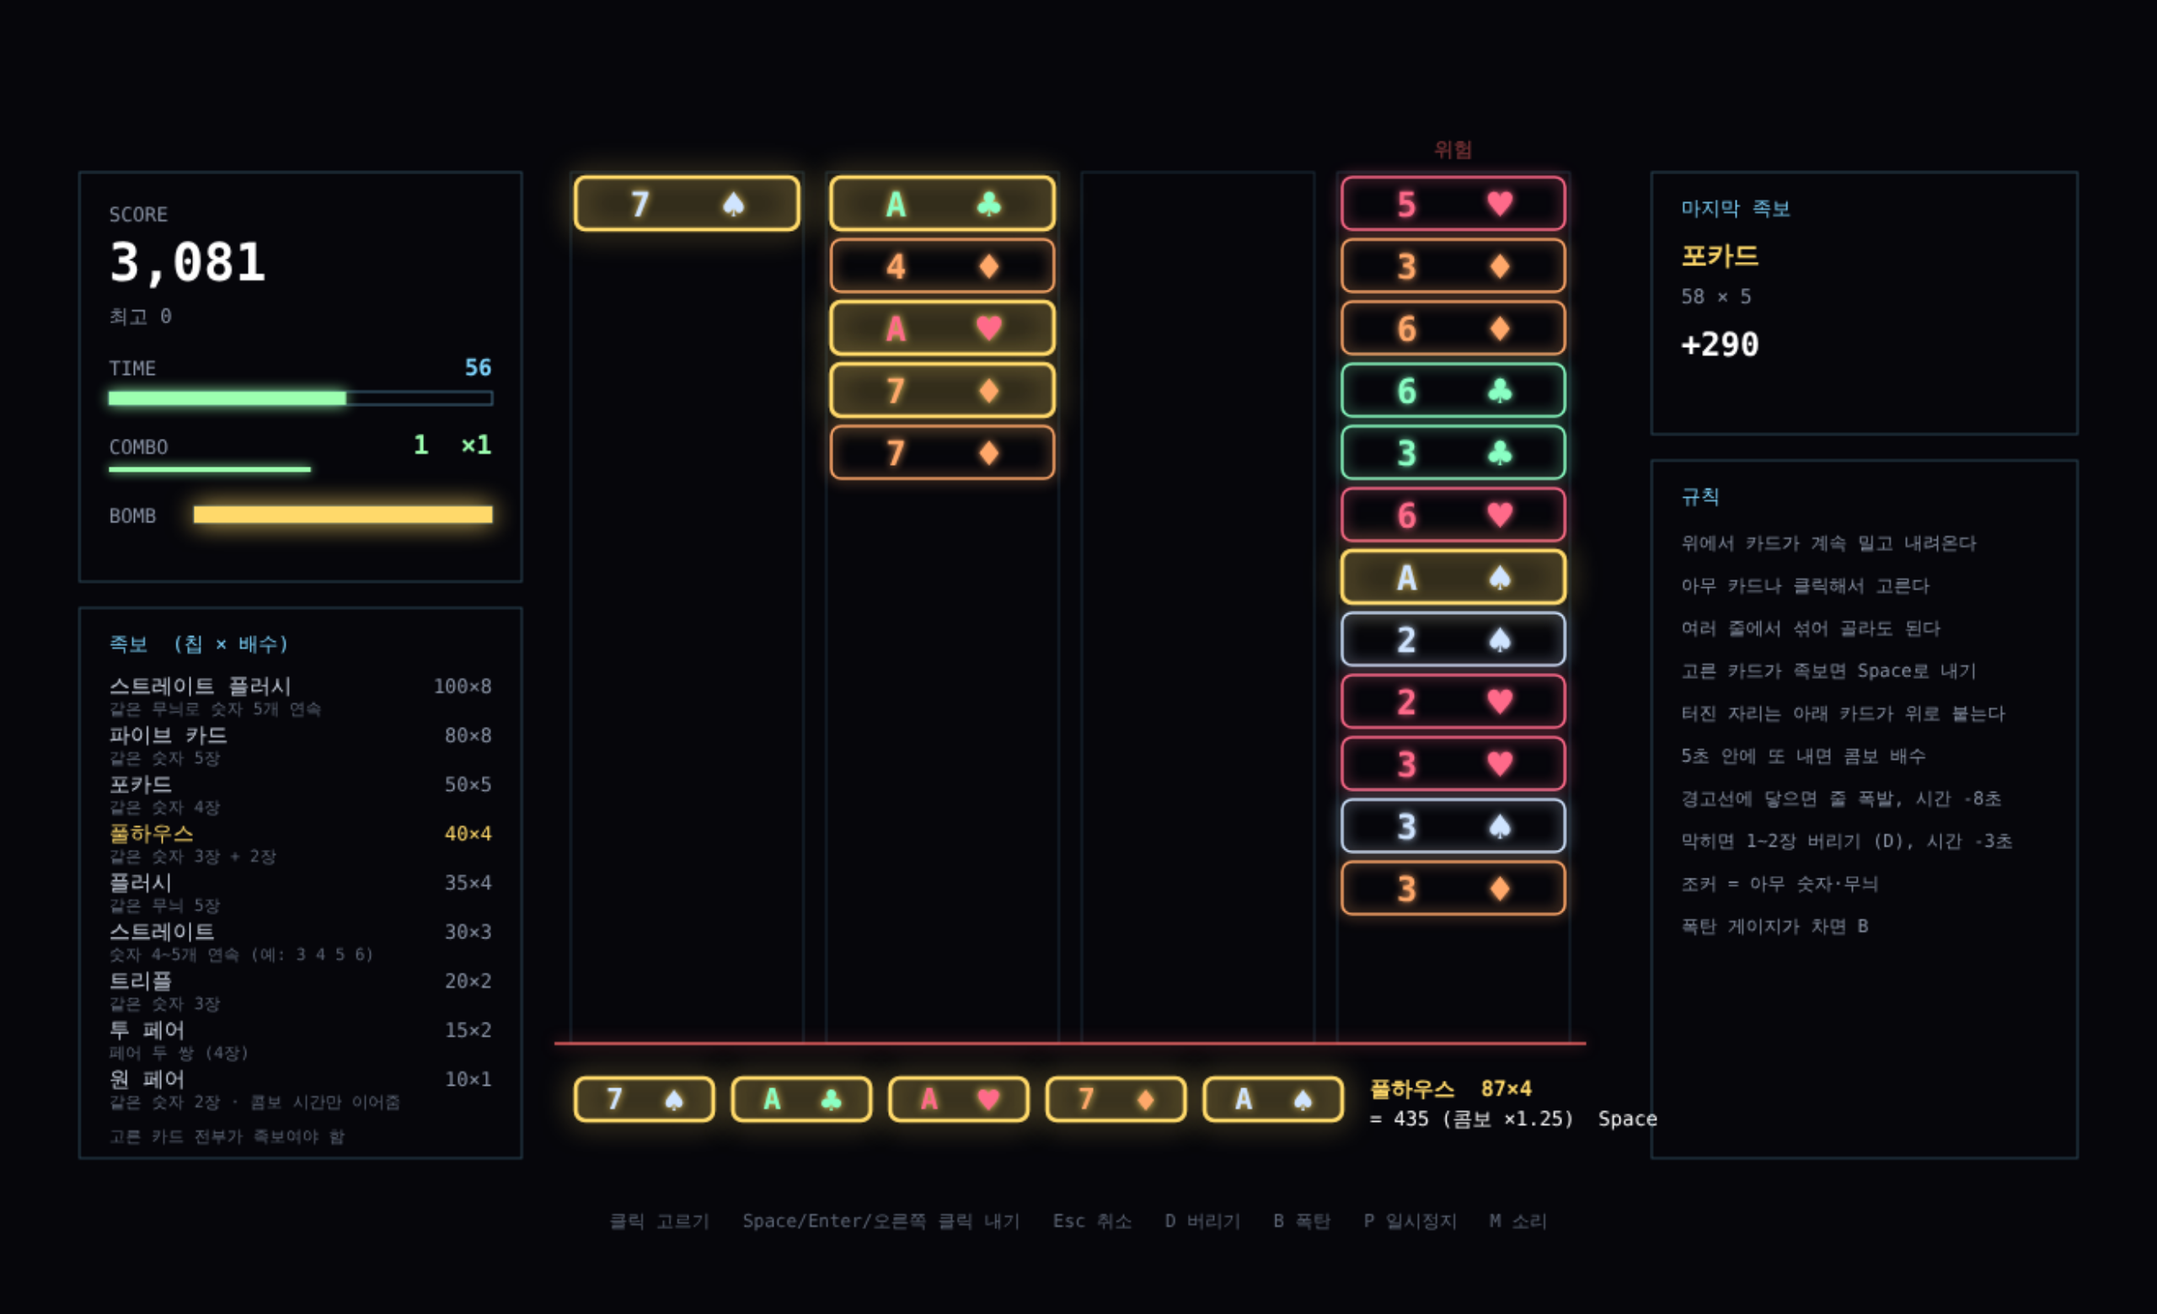
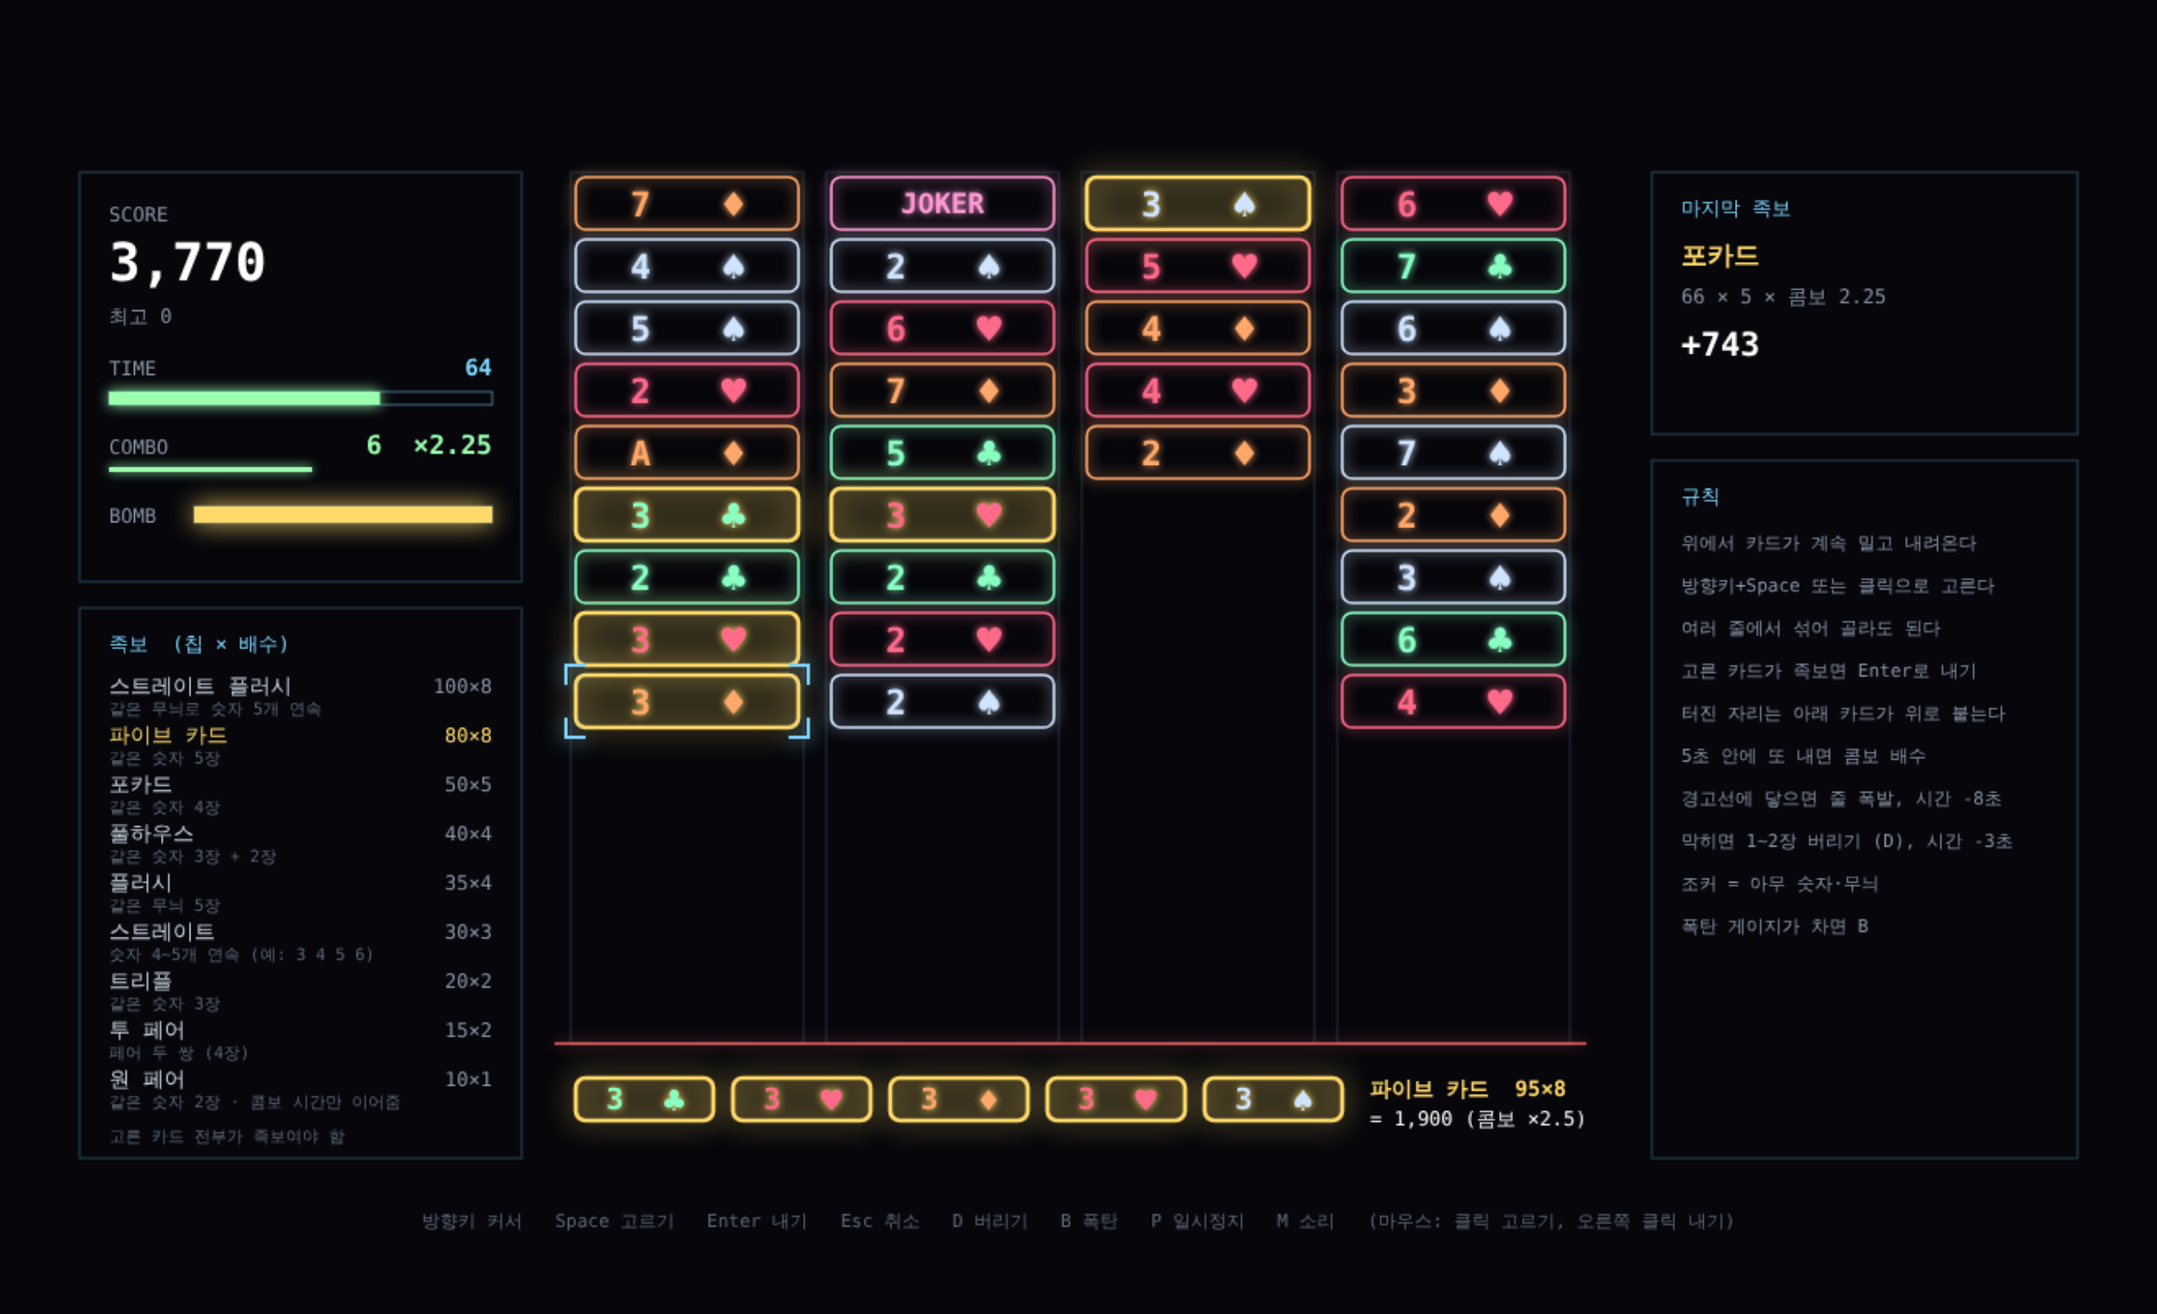
Stack Poker: keyboard controls (cursor, select, play)
Arrow keys move a cursor anchored to the bottom of each column, Space/Z
toggles the card, Enter/X plays the hand, 1-4 jump to a column. Mouse and
touch still work. Rule tests no longer depend on random pushes.

Claude-Session: https://claude.ai/code/session_016SHfTFKWnAwehWcokYQwXR

diff --git a/prototype/stack-poker/index.html b/prototype/stack-poker/index.html
@@ -98,7 +98,7 @@ let S;
 function newGame() {
   S = { phase: S && S.phase !== 'title' ? 'play' : 'title', cols: [[], [], [], []], sel: [], deck: [], score: 0, time: TIME_LIMIT, elapsed: 0,
     combo: 0, comboT: 0, maxCombo: 0, bomb: 0, pushT: 1.5, fx: [], texts: [], last: null, hands: 0, explodes: 0, discards: 0, now: 0, shake: 0,
-    best: S ? S.best : loadBest(), newBest: false, paused: false };
+    best: S ? S.best : loadBest(), newBest: false, paused: false, cursor: { col: 0, row: 0 } };
   for (let i = 0; i < NCOL; i++) for (let k = 0; k < 7; k++) { const c = drawCard(false); S.cols[i].unshift(c); }
   S.cols.forEach(col => col.forEach((c, k) => c.y = FY + k * CH));
 }
@@ -123,6 +123,15 @@ function toggle(c) {
   if (k >= 0) S.sel.splice(k, 1); else if (S.sel.length < 5) S.sel.push(c); else return;
   sfx(k >= 0 ? 'Lock' : 'Move');
 }
+// 키보드 커서: row는 줄 맨 아래부터 몇 번째 카드인지 (위에서 카드가 밀려 와도 아래 카드에 붙어 있다)
+function cursorCard() { const col = S.cols[S.cursor.col]; if (!col.length) return null; return col[col.length - 1 - Math.min(S.cursor.row, col.length - 1)]; }
+function moveCursor(dc, dr) {
+  if (S.phase !== 'play') return;
+  const cu = S.cursor, len = S.cols[cu.col].length;
+  if (dc) cu.col = (cu.col + dc + NCOL) % NCOL;
+  if (dr) cu.row = Math.max(0, Math.min(Math.max(0, len - 1), Math.min(cu.row, Math.max(0, len - 1)) + dr));
+}
+function toggleCursor() { const c = cursorCard(); if (c) toggle(c); }
 function clearSel() { if (S.sel.length) { S.sel = []; sfx('Lock'); } }
 function removeCards(cards, kind) {
   for (const c of cards) { const i = colOf(c); if (i < 0) continue; const col = S.cols[i]; col.splice(col.indexOf(c), 1); S.fx.push({ kind, x: colX(i), y: c.y, c, t: .45 }); }
@@ -211,6 +220,10 @@ function draw() {
     if (n && PICK_DEPTH < MAXH) { const top = col[Math.max(0, n - PICK_DEPTH)].y; g.shadowBlur = 0; g.fillStyle = 'rgba(127,214,255,.05)'; g.fillRect(x + 1, top, CW - 2, col[n - 1].y + CH - top); }
     col.forEach(c => { const sel = S.sel.includes(c), canPick = play && pickable(c);
       card(x, c.y, CW, CH, c, { sel, hot: sel && h && blink, alpha: canPick || !play ? 1 : .42 }); });
+    if (play && i === S.cursor.col) { // 키보드 커서
+      const c = cursorCard(), y = c ? c.y : FY; g.lineWidth = 2; glow('#7fd6ff', 14); const L = 12, x0 = x - 3, x1 = x + CW + 3, y0 = y - 3, y1 = y + CH + 3;
+      g.beginPath(); g.moveTo(x0, y0 + L); g.lineTo(x0, y0); g.lineTo(x0 + L, y0); g.moveTo(x1 - L, y0); g.lineTo(x1, y0); g.lineTo(x1, y0 + L);
+      g.moveTo(x0, y1 - L); g.lineTo(x0, y1); g.lineTo(x0 + L, y1); g.moveTo(x1 - L, y1); g.lineTo(x1, y1); g.lineTo(x1, y1 - L); g.stroke(); }
     if (n >= MAXH - 3) { g.globalAlpha = blink ? .9 : .4; text('위험', x + CW / 2, FY - 10, '#ff6a6a', 12, 'center', 'bold'); g.globalAlpha = 1; }
   }
   g.lineWidth = 2; glow('rgba(255,106,106,.7)', 10); g.beginPath(); g.moveTo(FX - 10, DANGER_Y); g.lineTo(FIELD_R + 10, DANGER_Y); g.stroke();
@@ -249,8 +262,8 @@ function draw() {
   panel(RX, 64, 260, 160); text('마지막 족보', RX + 18, 90, '#7fd6ff', 12);
   if (S.last) { text(S.last.name, RX + 18, 120, '#ffd96a', 16, 'left', 'bold'); text(`${S.last.chips} × ${S.last.mult}${S.last.cm > 1 ? ` × 콤보 ${S.last.cm}` : ''}`, RX + 18, 144, '#8a94a6', 12); text(`+${S.last.score.toLocaleString()}`, RX + 18, 176, '#ffffff', 20, 'left', 'bold'); }
   panel(RX, 240, 260, 426); text('규칙', RX + 18, 266, '#7fd6ff', 12);
-  ['위에서 카드가 계속 밀고 내려온다', '아무 카드나 클릭해서 고른다', '여러 줄에서 섞어 골라도 된다', '고른 카드가 족보면 Space로 내기', '터진 자리는 아래 카드가 위로 붙는다', `${COMBO_WINDOW}초 안에 또 내면 콤보 배수`, `경고선에 닿으면 줄 폭발, 시간 -${EXPLODE_COST}초`, `막히면 1~2장 버리기 (D), 시간 -${DISCARD_COST}초`, '조커 = 아무 숫자·무늬', '폭탄 게이지가 차면 B'].forEach((l, i) => text(l, RX + 18, 294 + i * 26, '#8a94a6', 11));
-  text('클릭 고르기   Space/Enter/오른쪽 클릭 내기   Esc 취소   D 버리기   B 폭탄   P 일시정지   M 소리', W / 2, H - 12, '#5f6878', 11, 'center');
+  ['위에서 카드가 계속 밀고 내려온다', '방향키+Space 또는 클릭으로 고른다', '여러 줄에서 섞어 골라도 된다', '고른 카드가 족보면 Enter로 내기', '터진 자리는 아래 카드가 위로 붙는다', `${COMBO_WINDOW}초 안에 또 내면 콤보 배수`, `경고선에 닿으면 줄 폭발, 시간 -${EXPLODE_COST}초`, `막히면 1~2장 버리기 (D), 시간 -${DISCARD_COST}초`, '조커 = 아무 숫자·무늬', '폭탄 게이지가 차면 B'].forEach((l, i) => text(l, RX + 18, 294 + i * 26, '#8a94a6', 11));
+  text('방향키 커서   Space 고르기   Enter 내기   Esc 취소   D 버리기   B 폭탄   P 일시정지   M 소리   (마우스: 클릭 고르기, 오른쪽 클릭 내기)', W / 2, H - 12, '#5f6878', 11, 'center');
 
   g.setTransform(1, 0, 0, 1, 0, 0);
   const overlay = (title, col, lines, foot) => { g.fillStyle = 'rgba(6,6,11,.88)'; g.fillRect(0, 0, W, H); text(title, W / 2, 240, col, 34, 'center', 'bold'); lines.forEach((l, i) => text(l, W / 2, 290 + i * 26, '#cfd8e6', 14, 'center')); text(foot, W / 2, 300 + lines.length * 26 + 50, '#ffd96a', 18, 'center'); };
@@ -279,12 +292,12 @@ function act(a) {
   if (S.phase === 'title') { if (a === 'start' || a === 'tap' || a === 'play') { S.phase = 'play'; sfx('Start'); } return; }
   if (S.phase === 'end') { if (a === 'start' || a === 'tap' || a === 'play') { newGame(); S.phase = 'play'; sfx('Start'); } return; }
   if (a === 'pause') { S.paused = !S.paused; return; } if (S.paused) return;
-  ({ play: playHand, start: playHand, clear: clearSel, discard, bomb })[a]?.();
+  ({ play: playHand, start: playHand, clear: clearSel, discard, bomb, toggle: toggleCursor, left: () => moveCursor(-1, 0), right: () => moveCursor(1, 0), up: () => moveCursor(0, 1), down: () => moveCursor(0, -1), c0: () => { S.cursor.col = 0; }, c1: () => { S.cursor.col = 1; }, c2: () => { S.cursor.col = 2; }, c3: () => { S.cursor.col = 3; } })[a]?.();
 }
 addEventListener('keydown', e => {
-  if ([' ', 'Enter'].includes(e.key)) e.preventDefault();
-  if (e.repeat) return;
-  const map = { ' ': 'play', Enter: 'start', Escape: 'clear', d: 'discard', D: 'discard', b: 'bomb', B: 'bomb', p: 'pause', P: 'pause', m: 'mute', M: 'mute' };
+  if ([' ', 'Enter', 'ArrowLeft', 'ArrowRight', 'ArrowUp', 'ArrowDown'].includes(e.key)) e.preventDefault();
+  if (e.repeat && !e.key.startsWith('Arrow')) return;
+  const map = { ArrowLeft: 'left', ArrowRight: 'right', ArrowUp: 'up', ArrowDown: 'down', ' ': 'toggle', z: 'toggle', Z: 'toggle', Enter: 'start', x: 'play', X: 'play', Escape: 'clear', d: 'discard', D: 'discard', b: 'bomb', B: 'bomb', p: 'pause', P: 'pause', m: 'mute', M: 'mute', '1': 'c0', '2': 'c1', '3': 'c2', '4': 'c3' };
   if (map[e.key]) act(map[e.key]);
 });
 function toCanvas(ev) { const r = cv.getBoundingClientRect(), s = Math.min(r.width / W, r.height / H); return [(ev.clientX - r.left - (r.width - W * s) / 2) / s, (ev.clientY - r.top - (r.height - H * s) / 2) / s]; }
@@ -293,7 +306,7 @@ cv.addEventListener('pointerdown', ev => {
   if (S.phase !== 'play') { act('tap'); return; }
   if (ev.button === 2) { playHand(); return; }
   const [x, y] = toCanvas(ev);
-  for (let i = 0; i < NCOL; i++) if (x >= colX(i) && x <= colX(i) + CW) { const c = S.cols[i].find(cc => y >= cc.y && y < cc.y + CH); if (c) { toggle(c); return; } }
+  for (let i = 0; i < NCOL; i++) if (x >= colX(i) && x <= colX(i) + CW) { const col = S.cols[i], c = col.find(cc => y >= cc.y && y < cc.y + CH); if (c) { S.cursor = { col: i, row: col.length - 1 - col.indexOf(c) }; toggle(c); return; } }
   // 아래 고른 카드 줄을 누르면 그 카드 빼기
   const by = DANGER_Y + 18; if (y >= by && y <= by + 32) { const k = Math.floor((x - FX) / 96); if (k >= 0 && k < S.sel.length) { S.sel.splice(k, 1); sfx('Lock'); } else if (x > FX + 5 * 96) playHand(); }
   else if (x < 310 && y >= 256 && y <= 310) bomb();

diff --git a/prototype/stack-poker/test.js b/prototype/stack-poker/test.js
@@ -26,16 +26,23 @@ const { chromium } = require('playwright');
     t('조커 + 페어 = 트리플', [c(4), J, c(4, '♥')], 'triple');
     t('A는 1 (6 7 A 2 아님)', [c(6), c(7, '♥'), c(1, '♦'), c(2, '♣')], 'none');
     // 고르기: 고른 카드 내면 사라지고 아래 카드가 위로 붙음
-    A.newGame(); const s = S(); s.phase = 'play';
+    A.newGame(); const s = S(); s.phase = 'play'; s.pushT = 1e9;
     s.cols = [[c(1), c(2), c(6, '♥'), c(3), c(4)], [c(6, '♦'), c(5)], [c(6, '♣')], []];
     A.toggle(s.cols[0][0]); const picked = s.sel.length === 1; A.toggle(s.cols[0][0]); const topBlocked = picked && s.sel.length === 0; // 위쪽 카드도 고를 수 있고, 다시 누르면 빠짐
     A.toggle(s.cols[0][2]); A.toggle(s.cols[1][0]); A.toggle(s.cols[2][0]); A.playHand();
     const playOk = topBlocked && s.hands === 1 && s.cols[0].length === 4 && s.cols[0][2].r === 3 && s.score === (20 + 18) * 2 && s.combo === 1;
     A.update(1); A.toggle(s.cols[0][3]); const t0 = s.time; A.discard(); const discardOk = s.cols[0].length === 3 && s.time <= t0 - 3 && s.combo === 0;
+    // 키보드: 커서 이동과 Space 고르기, Enter 내기
+    A.newGame(); const sk = S(); sk.phase = 'play'; sk.pushT = 1e9; sk.cols = [[c(1), c(3)], [c(3, '♥'), c(6)], [c(2), c(3, '♦')], [c(7)]];
+    A.act('down'); A.act('toggle');            // 0번 줄 맨 아래 3♠
+    A.act('right'); A.act('up'); A.act('toggle'); // 1번 줄 아래에서 두 번째 3♥
+    A.act('right'); A.act('down'); A.act('toggle'); // 2번 줄 맨 아래 3♦
+    const selBefore = sk.sel.map(x => x.r + x.s).join(); A.act('start');
+    const keyOk = selBefore === '3♠,3♥,3♦' && sk.hands === 1 && sk.cols[1].length === 1;
     // 원 페어: 콤보 시간은 이어주고 단계는 안 올림
-    A.newGame(); const s3 = S(); s3.phase = 'play'; s3.cols = [[c(2), c(2, '♥'), c(2, '♦'), c(5), c(5, '♥')], [], [], []];
+    A.newGame(); const s3 = S(); s3.phase = 'play'; s3.pushT = 1e9; s3.cols = [[c(2), c(2, '♥'), c(2, '♦'), c(5), c(5, '♥')], [], [], []];
     [0, 1, 2].forEach(k => A.toggle(s3.cols[0][k])); A.playHand(); A.update(3); const left = s3.comboT;
-    A.toggle(s3.cols[0][0]); A.toggle(s3.cols[0][1]); A.playHand();
+    s3.cols[0].filter(x => x.r === 5 && !x.joker).slice(0, 2).forEach(x => A.toggle(x)); A.playHand(); // 위에서 카드가 밀려 와도 5 두 장을 찾아 고른다
     const pairOk = s3.combo === 1 && left < 3 && s3.comboT > 4.9 && s3.hands === 2;
     // 줄 폭발
     A.newGame(); const s2 = S(); s2.phase = 'play'; s2.cols[1] = Array.from({ length: A.MAXH - 1 }, (_, i) => c(i % 7 + 1)); const t1 = s2.time; for (let k = 0; k < 300 && !s2.explodes; k++) A.push(); // 무작위 줄에 밀어 넣으니 가득 찬 줄에 닿을 때까지
@@ -56,7 +63,7 @@ const { chromium } = require('playwright');
       res.push({ score: g.score, hands: g.hands, maxCombo: g.maxCombo, explodes: g.explodes, discards: g.discards });
     }
     const avg = k => Math.round(res.reduce((a, x) => a + x[k], 0) / res.length * 10) / 10;
-    return { cases, allOk: cases.every(x => x.ok), pairOk, playOk, discardOk, explodeOk,
+    return { cases, allOk: cases.every(x => x.ok), keyOk, pairOk, playOk, discardOk, explodeOk,
       bot: { thinkSec, clickSec, avgScore: avg('score'), min: Math.min(...res.map(x => x.score)), max: Math.max(...res.map(x => x.score)), hands: avg('hands'), maxCombo: avg('maxCombo'), explodes: avg('explodes'), discards: avg('discards') } };
   }, [+(process.argv[3] || 10), +(process.argv[4] || 0.3), +(process.argv[5] || 2)]);
   console.log(JSON.stringify({ ...out, cases: out.cases.filter(x => !x.ok) }, null, 1)); console.log('errors:', errors.length ? errors : 'none'); await b.close();

diff --git a/prototype/stack-poker/README.md b/prototype/stack-poker/README.md
@@ -4,7 +4,8 @@
 
 - 카드 4줄이 위에 매달려 있고, 위에서 새 카드가 계속 밀고 내려온다 (갈수록 빨라짐)
 - **내려오는 카드를 클릭해 골라** 족보를 만든다. 어느 줄이든 섞어서 골라도 된다 (최대 5장)
-- 고른 카드 전부가 족보면 Space(또는 오른쪽 클릭)로 내서 터뜨린다
+- 고른 카드 전부가 족보면 Enter(또는 오른쪽 클릭)로 내서 터뜨린다
+- 키보드만으로도 된다: 방향키로 커서를 옮기고 Space로 고른다
 - 원 페어도 된다. 대신 점수가 가장 낮고, 콤보 단계는 안 올리고 콤보 시간만 이어준다
 - 터진 자리는 아래 카드가 위로 붙는다
 - 5초 안에 다음 족보를 내면 콤보 배수 (×1.25씩, 최대 ×3)
@@ -31,17 +32,23 @@
 점수 = (기본 칩 + 카드 숫자 합, A는 11, 조커 10) × 배수 × 콤보. 덱은 A~7 × 4무늬 × 2벌.
 
 ## 조작
-| 입력 | 동작 |
+| 키보드 | 동작 |
 |---|---|
-| 카드 클릭 | 고르기 / 다시 누르면 빼기 |
-| Space / Enter / 오른쪽 클릭 | 족보 내기 |
+| 방향키 | 커서 이동 (좌우: 줄, 위아래: 같은 줄 안의 카드) |
+| 1 2 3 4 | 그 줄로 커서 바로 이동 |
+| Space / Z | 커서 카드 고르기 / 빼기 |
+| Enter / X | 족보 내기 |
 | Esc | 선택 취소 |
 | D | 고른 1~2장 버리기 |
 | B | 폭탄 |
 | P / M | 일시정지 / 소리 |
 
+커서는 줄 맨 아래부터 몇 번째인지로 기억해서, 위에서 카드가 밀려 와도 아래쪽 카드에 붙어 있다.
+
+마우스: 카드 클릭으로 고르기, 오른쪽 클릭으로 내기. 터치: 카드 누르기 + 아래 버튼.
+
 ## 시험
-`test.js`: 족보 판정 13가지 (조커, 남는 카드 있으면 안 됨, A는 1), 고르기·내기·버리기, 원 페어 콤보 규칙, 줄 폭발, 봇 시험.
+`test.js`: 족보 판정 13가지 (조커, 남는 카드 있으면 안 됨, A는 1), 고르기·내기·버리기, 키보드 커서, 원 페어 콤보 규칙, 줄 폭발, 봇 시험.
 봇은 각 줄 아래쪽 6장에서 가장 좋은 족보를 찾는다. "족보 찾는 시간"을 바꿔 가며 사람 속도를 흉내 낸다 (클릭 1번 0.3초).
 
 | 족보 하나 찾는 시간 | 평균 점수 | 낸 족보 | 최대 콤보 | 줄 폭발 |

diff --git a/docs/05-decision-log.md b/docs/05-decision-log.md
@@ -58,3 +58,4 @@
 | D-052 | 2026-11-07 | 새 프로토타입 스택 포커(가제): 액션퍼즐패밀리 3줄 쌓기 모드를 카드 족보로. 줄 맨 아래 3~5장 족보 판정(순서 무관), 조커, 콤보, 폭탄, 줄 폭발 시 시간 -8초, 90초 점수제 | 사용자 요청 | 색 맞추기 원작 규칙 |
 | D-053 | 2026-11-07 | 스택 포커 v2: 쏘기 대신 내려오는 카드를 클릭해 골라 족보 만들기(여러 줄 섞어 최대 5장, 고른 카드 전부가 족보), 4줄, 콤보 창 5초·최대 ×3, 버리기 | 사용자 피드백. 맨 아래만 고르기는 봇 시험에서 막힘이 심해 전체 고르기로 | v1 쏘기, 맨 아래 3장만 고르기 |
 | D-054 | 2026-11-07 | 스택 포커에 원 페어 추가 (10 × 1). 콤보 단계는 안 올리고 콤보 시간만 이어줌 | 사용자 피드백. 페어 연타로 콤보를 쌓는 것은 막음 | 원 페어 없음, 원 페어도 콤보 단계 증가 |
+| D-055 | 2026-11-07 | 스택 포커 키보드 조작: 방향키 커서(줄 맨 아래 기준 위치), Space/Z 고르기, Enter/X 내기, 1~4 줄 이동. 마우스 조작은 유지 | 사용자 요청. PC 출시 기본 조작 | 마우스 전용 |

diff --git a/docs/13-stack-poker.md b/docs/13-stack-poker.md
@@ -52,3 +52,11 @@
 |---|---|
 | 원 페어 10 × 1 (가장 낮음) | 클릭 방식에서는 2장만 빨리 골라 줄을 정리하는 수단이 자연스러움 |
 | 원 페어는 콤보 단계를 올리지 않고 콤보 시간만 이어줌 | 페어 연타로 콤보 ×3을 쉽게 쌓는 것 방지. 페어로 콤보를 이어가다 큰 족보로 터뜨리는 플레이 |
+
+### 키보드 조작
+피드백: 키보드로 조작할 수 있게.
+
+| 결정 | 이유 |
+|---|---|
+| 방향키 커서 + Space 고르기 + Enter 내기 (Z/X도 같음), 1~4로 줄 바로 이동 | PC(Steam) 기본 조작. 마우스와 함께 쓸 수 있음 |
+| 커서는 줄 맨 아래부터 몇 번째인지로 기억 | 위에서 카드가 밀려 와도 커서가 보던 카드에서 안 움직임 |
